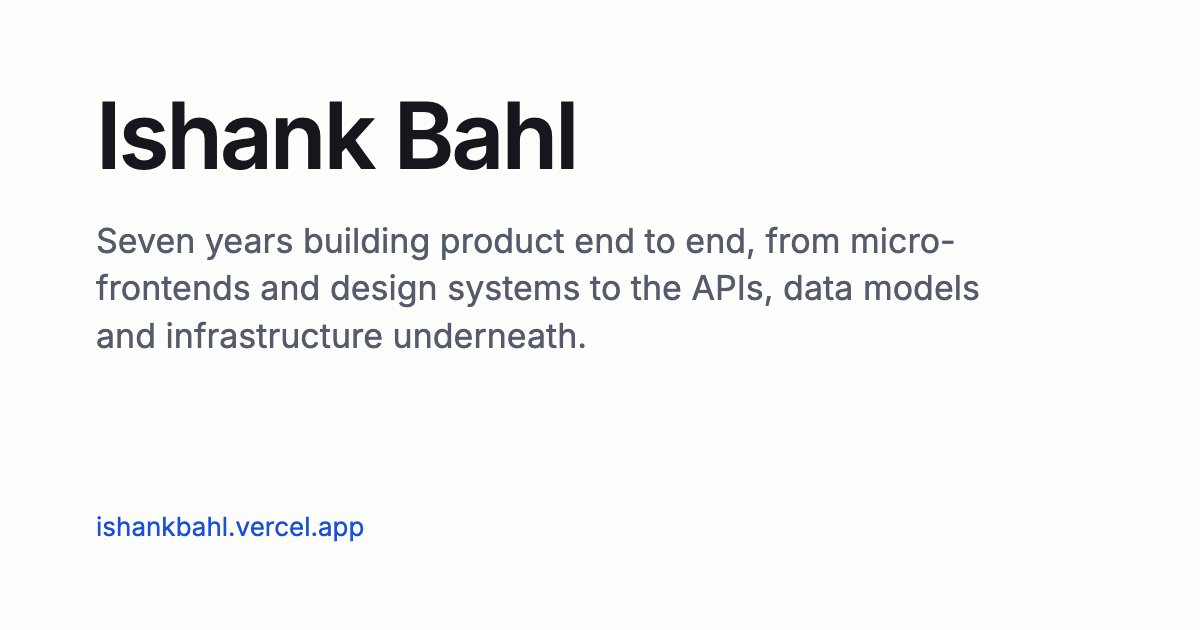
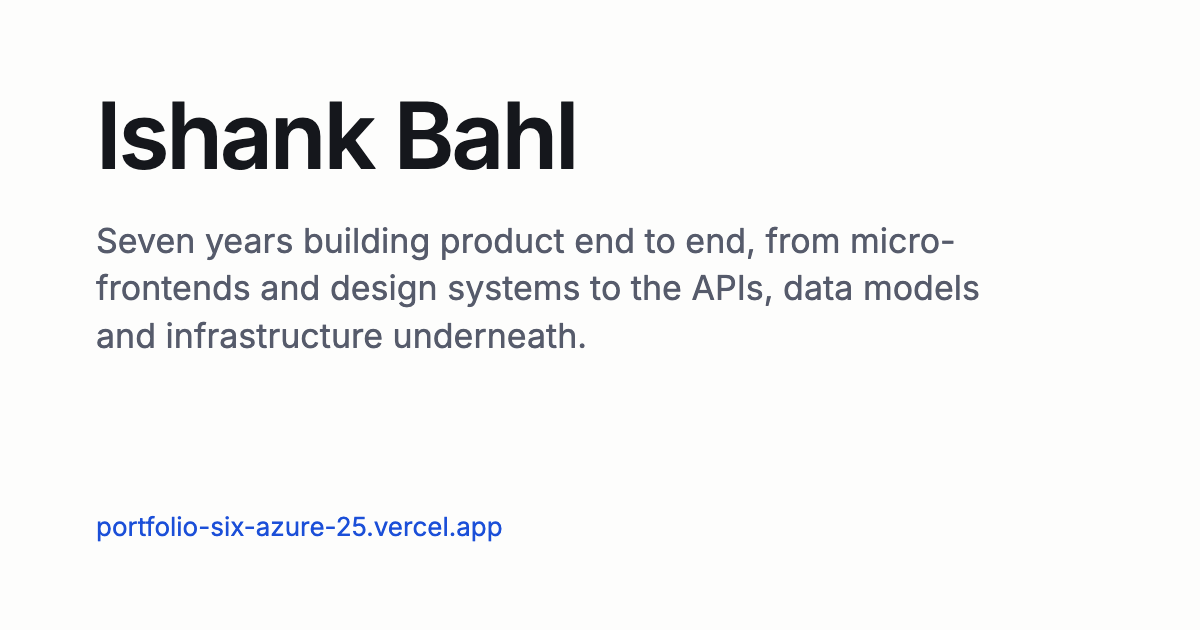
docs: point metadata at the live url and record the real numbers
siteUrl was ishankbahl.vercel.app, which Vercel did not assign, so the
deployed canonical, og:url and og:image all pointed at a 404. A link
pasted into WhatsApp had no preview image. Test 5 passed throughout,
because it asserts the og:image url is absolute and never that it
resolves. Regenerated og.png, which renders the domain into the image.

Measured against production, not localhost:

  transfer, cold cache, brotli   168.4 kB over 10 requests
  lighthouse mobile              perf 98 to 100, a11y 100, bp 100, seo 100
  cumulative layout shift        0, and 0.00003 in one of four runs
  lcp, lighthouse                1.11, 1.38, 1.77, 1.81 s
  lcp, throttling applied        0.71 s

The LCP target of 1.5 s is missed in half the Lighthouse runs and the
README says so. It also says I predicted the transfer figure wrong in the
other direction: I claimed brotli would put production under my local
157.7 kB and it came in above, because the local number could not include
the analytics scripts or per response header overhead.

pnpm check:placeholders now exits 0.

Changed region(s): [[0.0617, 0.8143, 0.4317, 0.8746]]

diff --git a/README.md b/README.md
@@ -2,8 +2,8 @@
 
 My portfolio landing page. One static route, deployed on Vercel.
 
-Live: https://ishankbahl.vercel.app
-Resume: https://ishankbahl.vercel.app/ishank-bahl-resume.pdf
+Live: https://portfolio-six-azure-25.vercel.app
+Resume: https://portfolio-six-azure-25.vercel.app/ishank-bahl-resume.pdf
 
 ## Why this exists
 
@@ -21,10 +21,12 @@ say so rather than carrying a flattering guess.
 | Framework baseline, First Load JS | 102 kB gzipped | build output, two clean builds |
 | My code and analytics on top of it | 2.34 kB gzipped, of which analytics is 2.34 kB | `pnpm budget`, CI gate |
 | My own code, excluding analytics | 0.00 kB | same |
-| Total page transfer, first visit | 157.7 kB gzipped | local `out/`, gzip -9 |
-| Largest Contentful Paint | MEASURE | pending, needs the deployed URL |
-| Cumulative Layout Shift | MEASURE | pending, needs the deployed URL |
-| Lighthouse performance / accessibility | MEASURE | pending, needs the deployed URL |
+| Total page transfer, first visit | 168.4 kB, 10 requests | production, cold cache, brotli, CDP wire bytes |
+| Largest Contentful Paint | 1.11 to 1.81 s, **target missed about half the time** | Lighthouse mobile, four runs |
+| Largest Contentful Paint, applied throttling | 0.71 s | Playwright, 4x CPU and Slow 4G applied not simulated |
+| Cumulative Layout Shift | 0, and 0.00003 in one of four runs | Lighthouse mobile |
+| Lighthouse performance | 98 to 100 | four runs against production |
+| Lighthouse accessibility / best practices / SEO | 100 / 100 / 100 | same |
 
 The framework number is the interesting one. Next.js on the App Router ships 102 kB gzipped to the
 browser for a page with no client components at all, and I measured that on an empty page before
@@ -37,11 +39,23 @@ except Vercel Web Analytics and Speed Insights, so the entire 2.34 kB of applica
 those two libraries and none of it is mine. I had written "most of it is analytics" in the spec
 before measuring. It is all of it.
 
-The 157.7 kB total is local and gzipped at level 9. Production will come in lower because Vercel
-serves brotli, so this figure is a ceiling rather than a best case. Of it, 47.3 kB is the font and
-97.6 kB is the framework, which is to say almost none of it is this page.
+**The LCP target missed and I am leaving the number in.** The spec asked for under 1.5 s on a mobile
+lab profile. Four Lighthouse runs against production gave 1.11, 1.38, 1.77 and 1.81 s, so it is over
+as often as it is under. Measuring the same page with throttling actually applied rather than
+simulated gives 0.71 s. Both numbers are real and they disagree because Lighthouse models a slow
+network instead of imposing one, and it models it differently each run. I would rather publish the
+spread than pick the run that agreed with my target. What I would do about it, with more time, is
+find out why a page whose largest element is text that arrives in the HTML has an LCP that moves by
+700 ms between runs. My suspicion is the font swap, and a suspicion is not a measurement.
 
-MEASURE: Lighthouse screenshot, taken against production.
+I also predicted the transfer size wrong. The README used to say production would come in under my
+157.7 kB local figure because Vercel serves brotli. It is 168.4 kB. Brotli did help, and it was
+outweighed by two things the local number could not include: the analytics scripts, which only exist
+in production and are 6.4 kB, and per response header overhead, which wire bytes count and file sizes
+do not. Of the 168.4 kB, 48.6 kB is the font, served uncompressed because woff2 already is, and
+104 kB is the framework.
+
+![Lighthouse mobile against production](docs/lighthouse.png)
 
 ## Three decisions
 
@@ -78,6 +92,14 @@ placeholders did not use, so it would have gone green on a repository still full
 
 None of those were caught by being clever. They were caught by being asked before anything was
 written.
+
+One thing the questions did not catch, and no test did either. There was no favicon, so every real
+visitor took a 404 on `/favicon.ico`. Test 4 asserts that nothing fails to load and reported a clean
+page, because headless Chromium does not make the automatic favicon request a real browser makes.
+Lighthouse found it in production. The test now reads the declared icon off the page and fetches it,
+which is the assertion that would have caught it, and I only knew to write it after measuring the
+deployed site. That is the argument for the last row of the Done when list being a real deployment
+rather than a green branch.
 
 I checked three things by hand and did not delegate them: every factual claim about my own work,
 because a model with a resume will happily write a sentence I cannot defend on the third follow up
